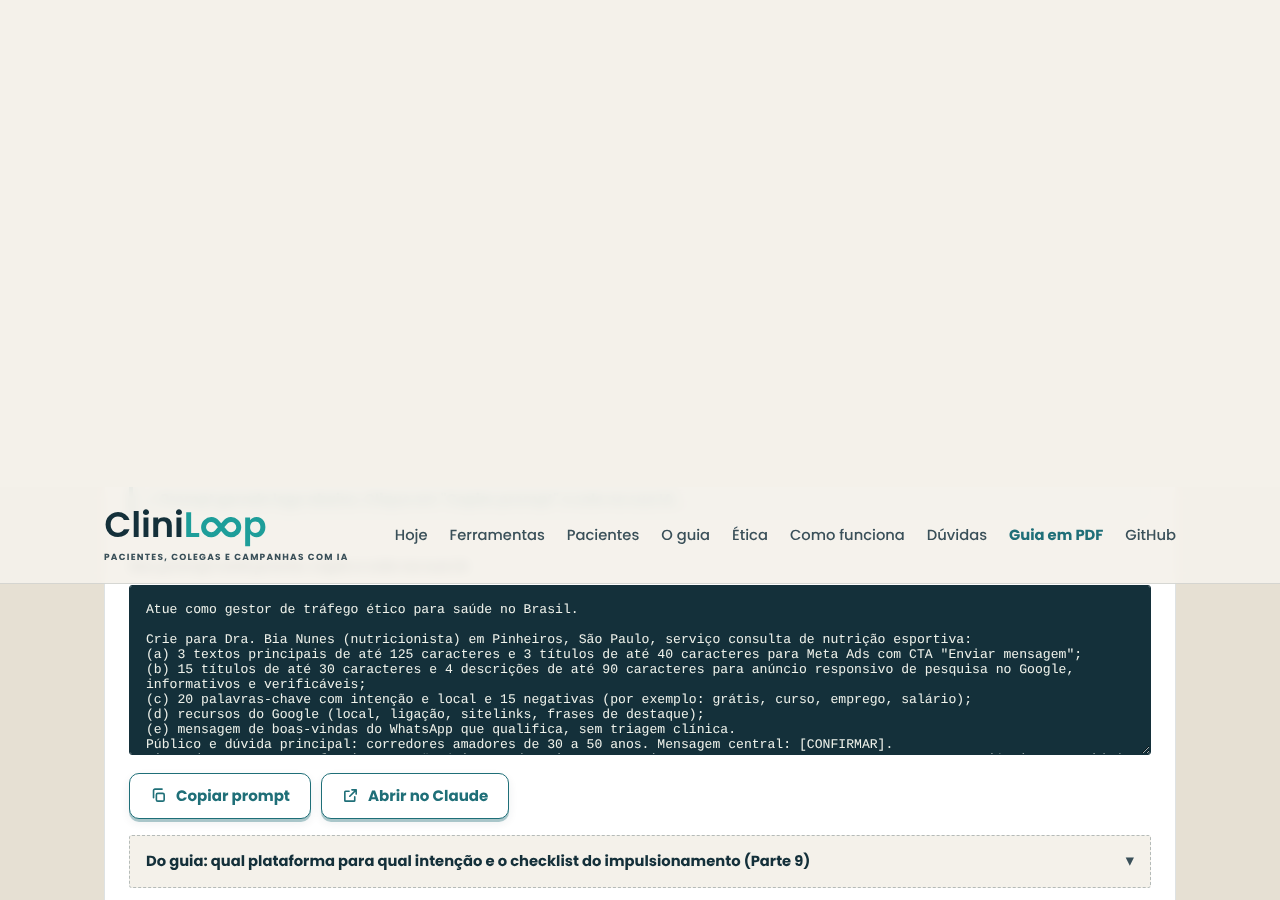
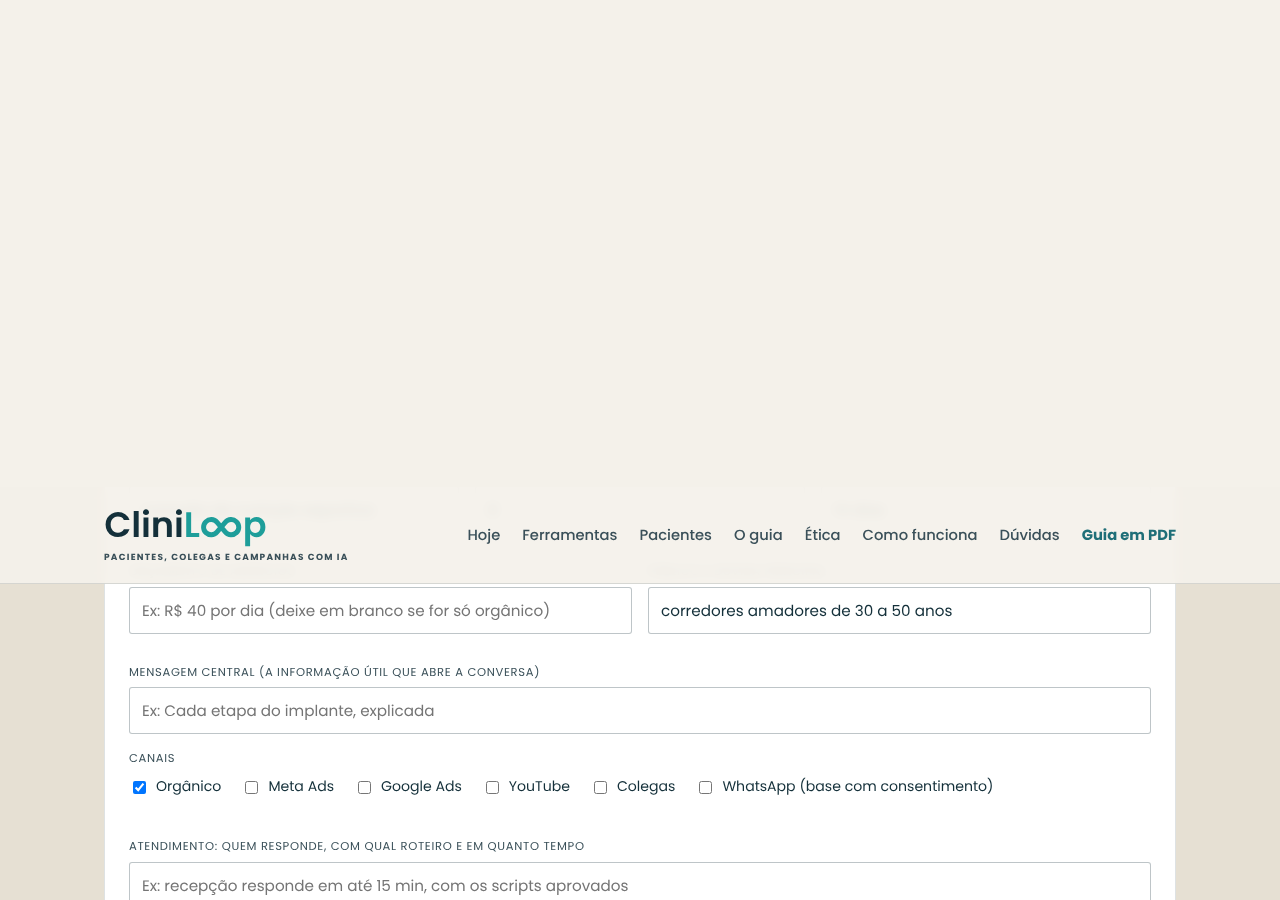
App: remove os links para o GitHub (menu, rodapé e envio de feedback) e a menção à licença MIT
Claude-Session: https://claude.ai/code/session_01FRoDe5TLvadjDWs3JedQJ9

Changed region(s): [[0.0938, 0.5911, 0.9062, 0.9956], [0.5625, 0.8711, 0.7812, 0.9022], [0.5, 0.8711, 0.5312, 0.9022]]

diff --git a/index.html b/index.html
@@ -917,7 +917,6 @@
       <a href="#como-funciona">Como funciona</a>
       <a href="#faq">Dúvidas</a>
       <a href="guia/O-Prompt-do-Sim.pdf" target="_blank" rel="noopener" class="nav-pdf">Guia em PDF</a>
-      <a href="#" id="nav-github" target="_blank" rel="noopener" hidden>GitHub</a>
     </nav>
   </div>
 </header>
@@ -1363,7 +1362,6 @@
                 <textarea id="fb-texto" rows="3" placeholder="Ex: não entendi o que fazer depois do passo 2; faltou um modelo de mensagem para colegas"></textarea>
               </div>
               <div class="form-actions">
-                <button type="button" id="fb-github" class="btn btn-teal btn-sm" hidden>Enviar pelo GitHub ↗</button>
                 <button type="button" id="fb-copiar" class="btn btn-outline btn-sm">Copiar o texto</button>
                 <span class="save-status" id="fb-status" aria-live="polite"></span>
               </div>
@@ -2721,7 +2719,7 @@
           <tr><th>Você gera um prompt</th><td>O prompt é montado na própria página e nunca inclui nomes ou telefones do Rastreador: no Assistente da semana, os pacientes viram "Contato 1, 2…"; em "Da conversa ao registro", telefones e e-mails são trocados por marcadores.</td></tr>
           <tr><th>Você cola um prompt no Claude.ai (com ou sem assinatura)</th><td>O texto vai para a Anthropic quando você envia a mensagem, como em qualquer conversa no Claude, e segue as configurações de privacidade da sua conta.</td></tr>
           <tr><th>Você usa o modo API ("Gerar resposta aqui")</th><td>O prompt, com os dados que você preencheu, e a sua chave vão do navegador direto para a API da Anthropic, que processa o pedido e cobra na sua conta.</td></tr>
-          <tr><th>Você abre a página</th><td>A página é hospedada no GitHub Pages e as fontes vêm do Google Fonts. Como em qualquer site, esses serviços recebem dados técnicos de acesso, como o endereço IP.</td></tr>
+          <tr><th>Você abre a página</th><td>O app é carregado do serviço que o hospeda, e as fontes vêm do Google Fonts. Como em qualquer site, esses serviços recebem dados técnicos de acesso, como o endereço IP.</td></tr>
           <tr><th>Você troca de aparelho ou limpa o navegador</th><td>Os dados não acompanham você. Use Configurações → Seus dados → Fazer backup e restaure o arquivo no outro aparelho.</td></tr>
         </table>
       </div>
@@ -2835,14 +2833,14 @@
 <footer>
   <div class="wrap">
     <span>CliniLoop: roda 100% no navegador, sem backend. Não substitui orientação do seu conselho profissional nem assessoria jurídica.</span>
-    <span>Publicado com GitHub Pages · <a href="#" id="foot-github" target="_blank" rel="noopener" hidden>código aberto no GitHub</a><span id="foot-license">licença MIT</span></span>
+    <span><i>O Prompt do Sim</i> e CliniLoop: o método Loop.</span>
   </div>
 </footer>
 
 <script>
   // ===================== CliniLoop =====================
-  // Endereço do repositório no GitHub (preencha depois de criar). Vazio = link escondido.
-  const REPO_URL = 'https://github.com/jordanrizetto-design/CliniLoop';
+  // Endereço público do código. Vazio = nenhum link para o repositório aparece no app.
+  const REPO_URL = '';
 
   const APP = 'CliniLoop';
   const APP_ID = 'CliniLoop';
@@ -6234,10 +6232,6 @@ ${SAVE_TOOLS.filter((id) => res[id]).map((id) => `### ${SAVE_TITLES[id]} (${fmtD
 
   // ===================== Inicialização =====================
   (function init() {
-    if (REPO_URL) {
-      ['nav-github', 'foot-github'].forEach((id) => { const a = document.getElementById(id); a.href = REPO_URL; a.hidden = false; });
-      document.getElementById('foot-license').hidden = true;
-    }
     const saved = storeGet(STORE_KEY, null);
     if (saved && typeof saved === 'object') applyConfig(saved);
     cfg = readConfig();
@@ -6606,7 +6600,7 @@ ${SAVE_TOOLS.filter((id) => res[id]).map((id) => `### ${SAVE_TITLES[id]} (${fmtD
 
   function renderExtras() { applyModo(); renderBeta(); if (typeof renderJornada === 'function') renderJornada(); }
 
-  // Feedback de teste: sem dados de pacientes, vai por GitHub (issue) ou por cópia do texto.
+  // Feedback de teste: sem dados de pacientes, vai por cópia do texto.
   (function feedback() {
     const nota = document.getElementById('fb-nota');
     if (!nota) return;
@@ -6618,8 +6612,7 @@ ${SAVE_TOOLS.filter((id) => res[id]).map((id) => `### ${SAVE_TITLES[id]} (${fmtD
       const t = (texto.value || '').trim();
       return { titulo: `Feedback de teste (nota ${nota.value}/5)`, corpo: `Foi fácil começar? ${nota.value}/5\n\nO que travou ou confundiu:\n${t || '(sem texto)'}\n\nTela: ${window.innerWidth}px de largura` };
     };
-    if (REPO_URL) gh.hidden = false;
-    gh.addEventListener('click', () => {
+    if (gh) gh.addEventListener('click', () => {
       const f = monta();
       window.open(`${REPO_URL}/issues/new?title=${encodeURIComponent(f.titulo)}&body=${encodeURIComponent(f.corpo)}`, '_blank', 'noopener');
     });

diff --git a/src/body2.html b/src/body2.html
@@ -30,7 +30,7 @@
           <tr><th>Você preenche campos, guarda decisões, registra números ou gera o briefing e o e-book</th><td>Tudo é processado e guardado neste navegador. O PacienteLoop não tem servidor nem banco de dados para receber essas informações.</td></tr>
           <tr><th>Você cola um prompt no Claude.ai (com ou sem assinatura)</th><td>O texto vai para a Anthropic quando você envia a mensagem, como em qualquer conversa no Claude, e segue as configurações de privacidade da sua conta.</td></tr>
           <tr><th>Você usa o modo API ("Gerar resposta aqui")</th><td>O prompt, com os dados que você preencheu, e a sua chave vão do navegador direto para a API da Anthropic, que processa o pedido e cobra na sua conta.</td></tr>
-          <tr><th>Você abre a página</th><td>A página é hospedada no GitHub Pages e as fontes vêm do Google Fonts. Como em qualquer site, esses serviços recebem dados técnicos de acesso, como o endereço IP.</td></tr>
+          <tr><th>Você abre a página</th><td>O app é carregado do serviço que o hospeda, e as fontes vêm do Google Fonts. Como em qualquer site, esses serviços recebem dados técnicos de acesso, como o endereço IP.</td></tr>
           <tr><th>Você troca de aparelho ou limpa o navegador</th><td>Os dados não acompanham você. Use Configurações → Seus dados → Fazer backup e restaure o arquivo no outro aparelho.</td></tr>
         </table>
       </div>
@@ -132,6 +132,6 @@
 <footer>
   <div class="wrap">
     <span>PacienteLoop: roda 100% no navegador, sem backend. Não substitui orientação do seu conselho profissional nem assessoria jurídica.</span>
-    <span>Publicado com GitHub Pages · <a href="#" id="foot-github" target="_blank" rel="noopener" hidden>código aberto no GitHub</a><span id="foot-license">licença MIT</span></span>
+    <span><i>O Prompt do Sim</i> e CliniLoop: o método Loop.</span>
   </div>
 </footer>

diff --git a/src/app6.js b/src/app6.js
@@ -76,7 +76,7 @@
 
   function renderExtras() { applyModo(); renderBeta(); if (typeof renderJornada === 'function') renderJornada(); }
 
-  // Feedback de teste: sem dados de pacientes, vai por GitHub (issue) ou por cópia do texto.
+  // Feedback de teste: sem dados de pacientes, vai por cópia do texto.
   (function feedback() {
     const nota = document.getElementById('fb-nota');
     if (!nota) return;
@@ -88,8 +88,7 @@
       const t = (texto.value || '').trim();
       return { titulo: `Feedback de teste (nota ${nota.value}/5)`, corpo: `Foi fácil começar? ${nota.value}/5\n\nO que travou ou confundiu:\n${t || '(sem texto)'}\n\nTela: ${window.innerWidth}px de largura` };
     };
-    if (REPO_URL) gh.hidden = false;
-    gh.addEventListener('click', () => {
+    if (gh) gh.addEventListener('click', () => {
       const f = monta();
       window.open(`${REPO_URL}/issues/new?title=${encodeURIComponent(f.titulo)}&body=${encodeURIComponent(f.corpo)}`, '_blank', 'noopener');
     });

diff --git a/src/settings_part.html b/src/settings_part.html
@@ -104,7 +104,6 @@
                 <textarea id="fb-texto" rows="3" placeholder="Ex: não entendi o que fazer depois do passo 2; faltou um modelo de mensagem para colegas"></textarea>
               </div>
               <div class="form-actions">
-                <button type="button" id="fb-github" class="btn btn-teal btn-sm" hidden>Enviar pelo GitHub ↗</button>
                 <button type="button" id="fb-copiar" class="btn btn-outline btn-sm">Copiar o texto</button>
                 <span class="save-status" id="fb-status" aria-live="polite"></span>
               </div>

diff --git a/sw.js b/sw.js
@@ -1,5 +1,5 @@
 // Service worker do CliniLoop: abre sem internet. A chamada da API do Claude nunca passa por aqui.
-const V = 'cliniloop-cdbf10f5';
+const V = 'cliniloop-576bf02d';
 const CORE = ['./', 'index.html', 'manifest.webmanifest', 'cliniloop-logo.svg', 'icons/icon-192.png', 'icons/icon-512.png'];
 self.addEventListener('install', (e) => { e.waitUntil(caches.open(V).then((c) => c.addAll(CORE)).then(() => self.skipWaiting())); });
 self.addEventListener('activate', (e) => {

diff --git a/src/app4.js b/src/app4.js
@@ -576,10 +576,6 @@
 
   // ===================== Inicialização =====================
   (function init() {
-    if (REPO_URL) {
-      ['nav-github', 'foot-github'].forEach((id) => { const a = document.getElementById(id); a.href = REPO_URL; a.hidden = false; });
-      document.getElementById('foot-license').hidden = true;
-    }
     const saved = storeGet(STORE_KEY, null);
     if (saved && typeof saved === 'object') applyConfig(saved);
     cfg = readConfig();

diff --git a/src/app1.js b/src/app1.js
@@ -1,6 +1,6 @@
   // ===================== CliniLoop =====================
-  // Endereço do repositório no GitHub (preencha depois de criar). Vazio = link escondido.
-  const REPO_URL = 'https://github.com/jordanrizetto-design/CliniLoop';
+  // Endereço público do código. Vazio = nenhum link para o repositório aparece no app.
+  const REPO_URL = '';
 
   const APP = 'CliniLoop';
   const APP_ID = 'CliniLoop';

diff --git a/src/head_part.html b/src/head_part.html
@@ -12,7 +12,6 @@
       <a href="#como-funciona">Como funciona</a>
       <a href="#faq">Dúvidas</a>
       <a href="guia/O-Prompt-do-Sim.pdf" target="_blank" rel="noopener" class="nav-pdf">Guia em PDF</a>
-      <a href="#" id="nav-github" target="_blank" rel="noopener" hidden>GitHub</a>
     </nav>
   </div>
 </header>
